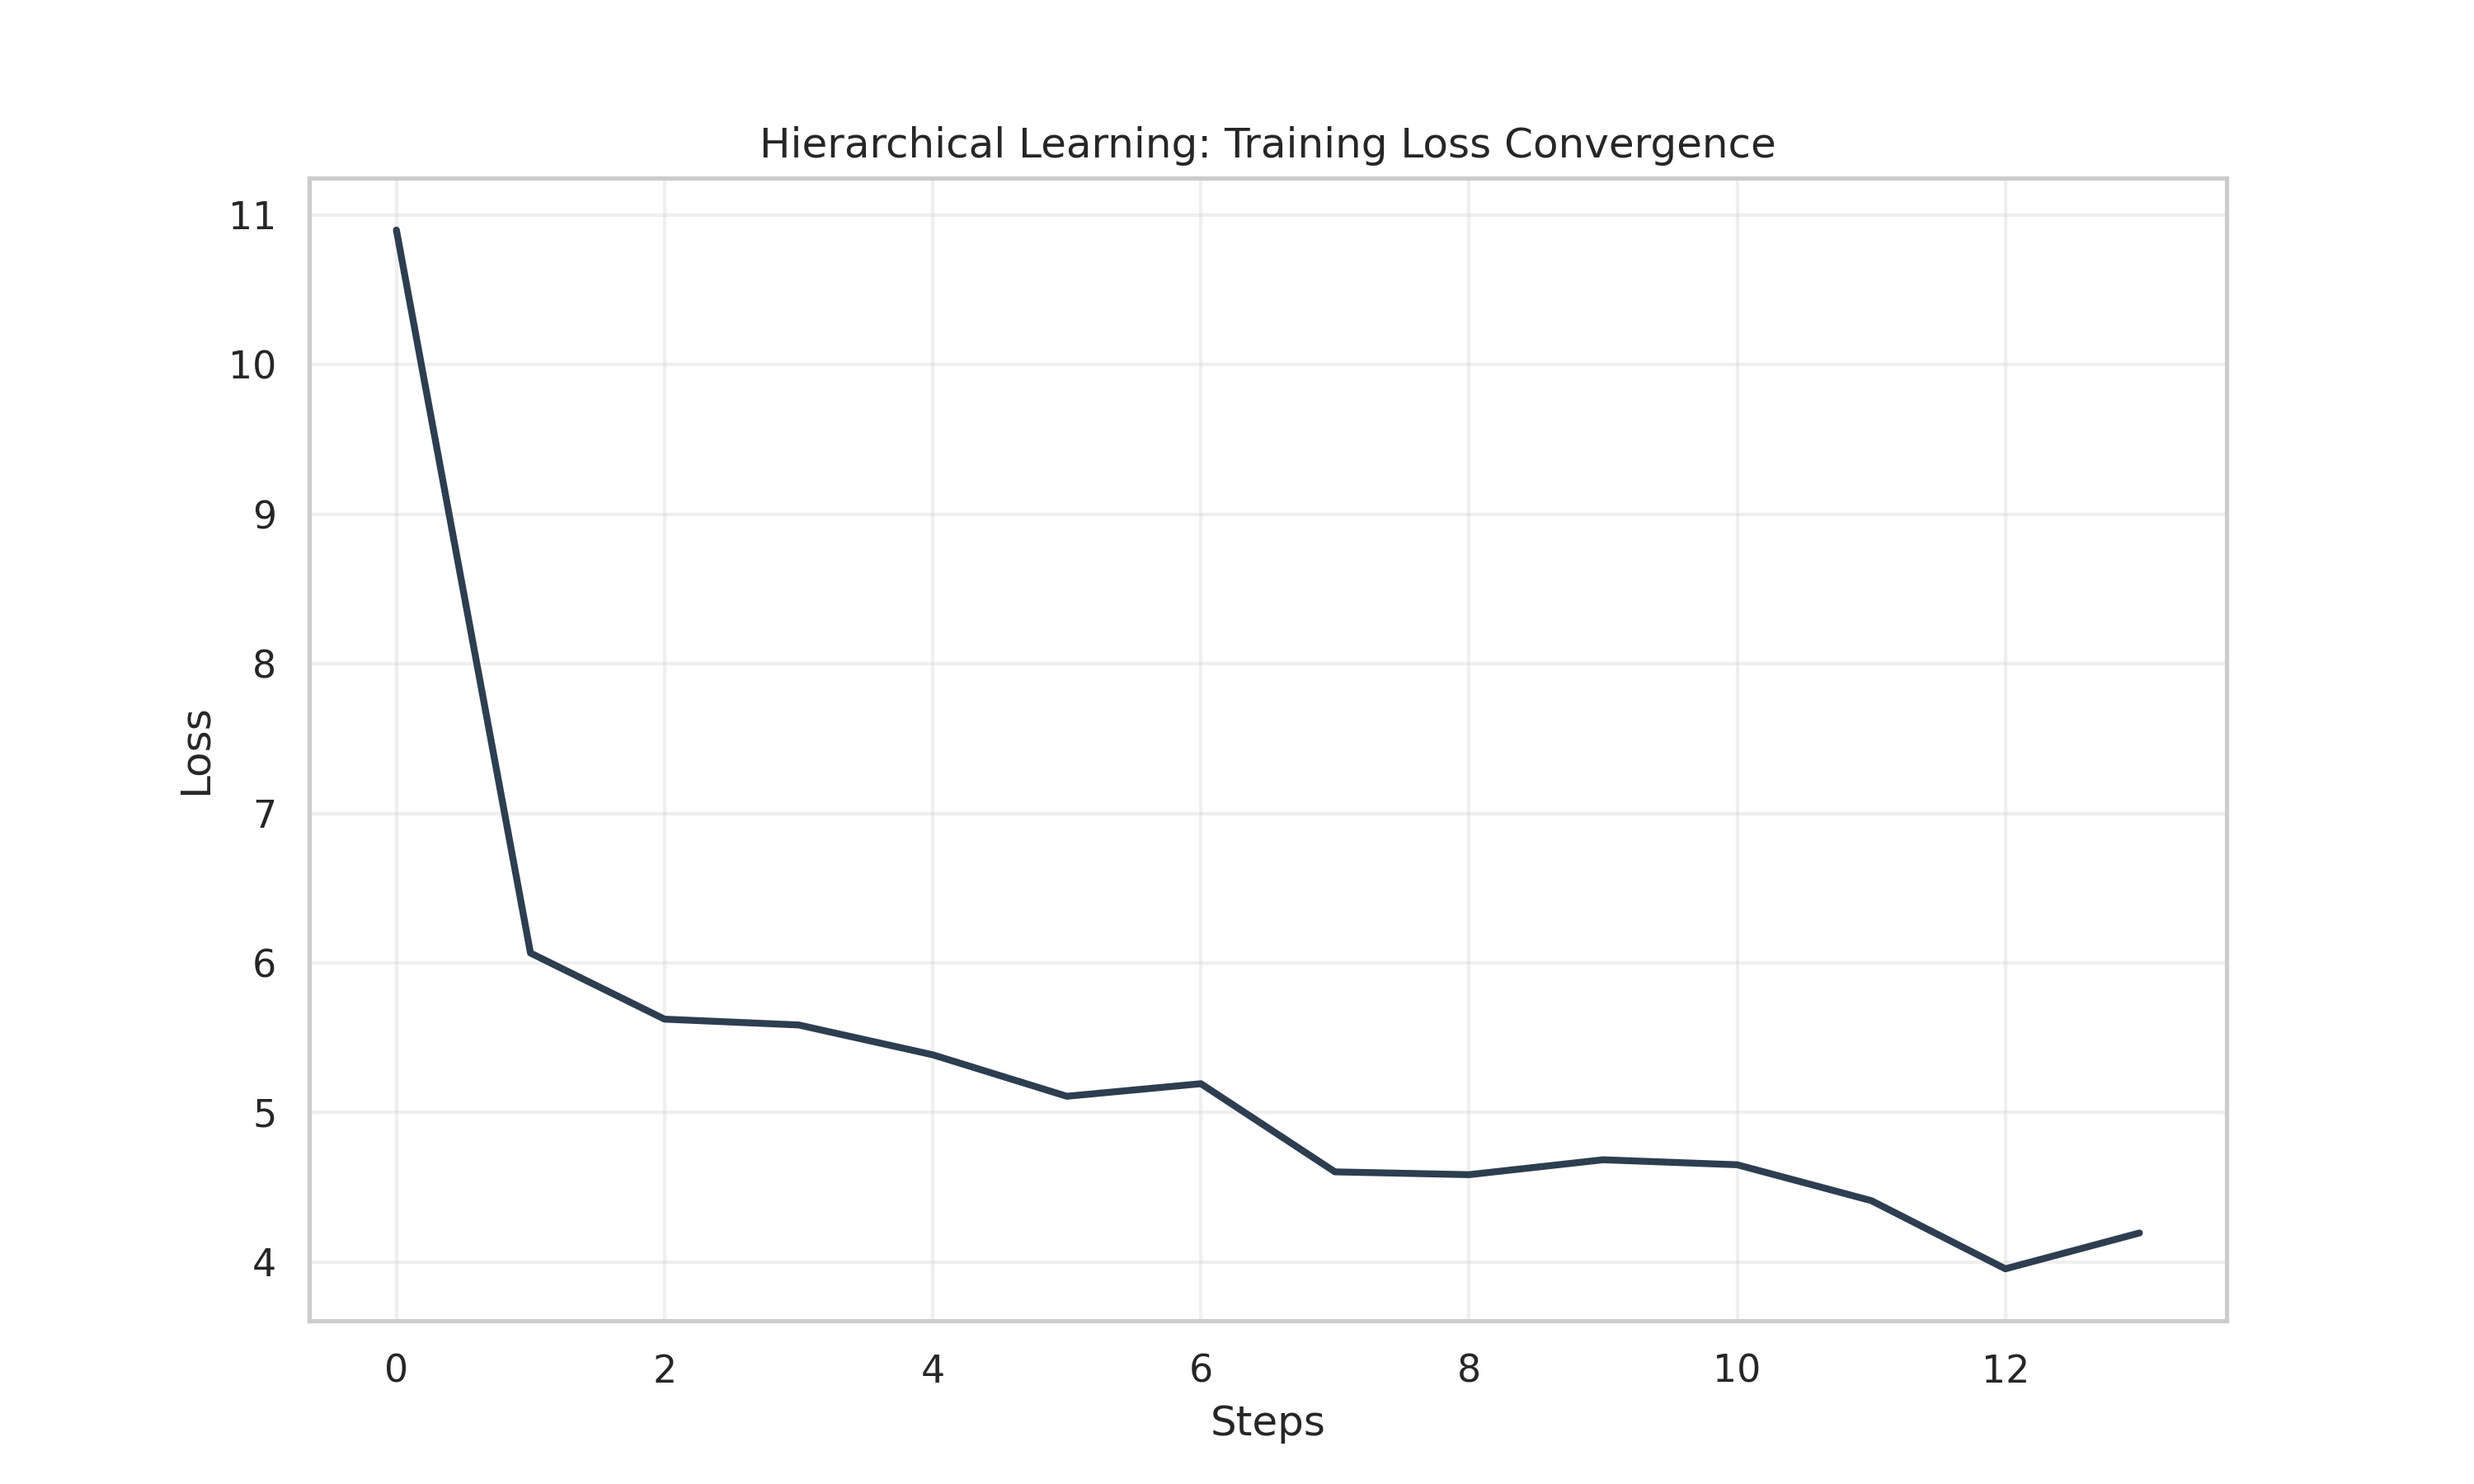
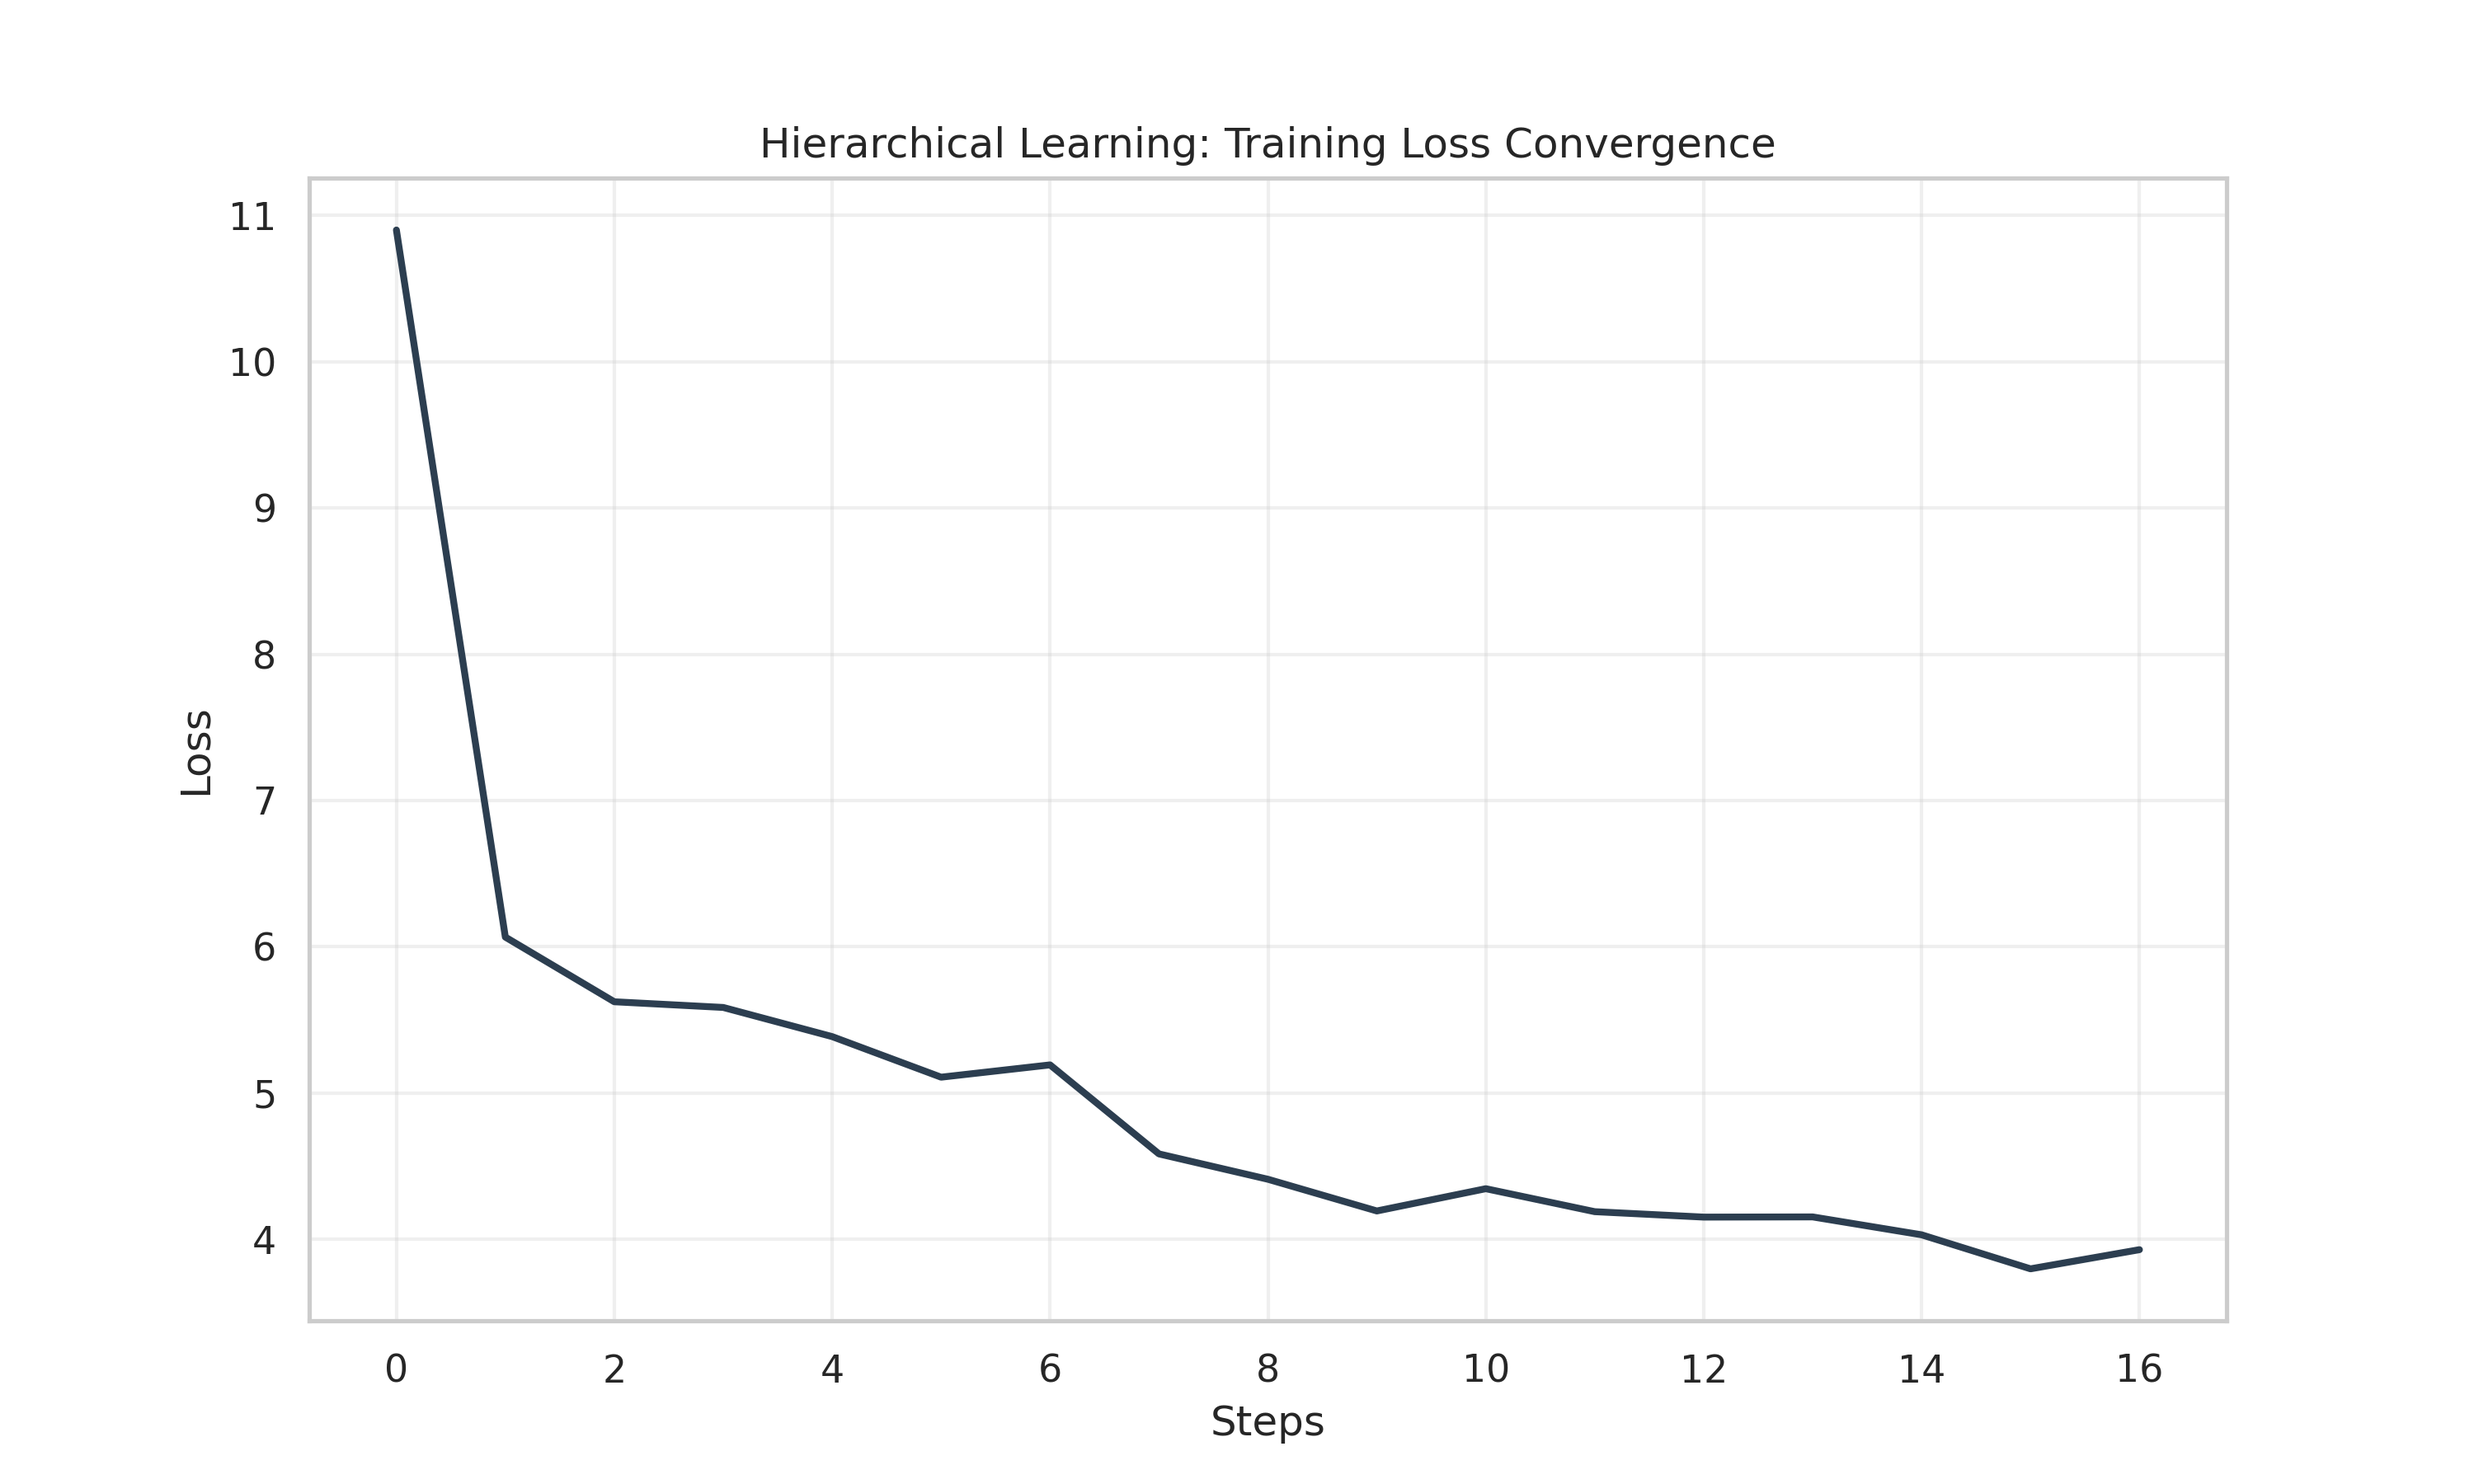
Scale research to 50M tokens: updated plots and stability analysis

diff --git a/research_muon/hierarchical_stretching.md b/research_muon/hierarchical_stretching.md
@@ -8,7 +8,7 @@ We hypothesized that while Muon enforces orthogonal constraints on parameter mat
 
 ## 📊 Experimental Setup
 - **Model**: Blueberry-Nano (88M Params, 22 layers, 512 d_model)
-- **Data**: 20 Million tokens (SmolLM-style dataset mix)
+- **Data**: 50 Million tokens (SmolLM-style dataset mix)
 - **Optimizer**: Muon (orthogonalized 2D updates for 2D params)
 - **Tracking**: Per-step extraction of:
     - **Max Spectral Norm ($\sigma_{max}$)**: Maximum singular value.
@@ -43,6 +43,16 @@ Unlike standard optimizers which can lead to uncontrolled spectral growth, Muon 
 #### D. Spectral Gap
 ![Spectral Gap](../results/research_plots/spectral_gap.png)
 *Insight: The persistent gap in deep layers shows that they maintain a clear "primary direction" for information flow, a signature of specialized semantic processing.*
+
+## ⚖ Stability & Scaling Analysis
+A common question in Muon training is whether the linear-like growth of the spectral norm (reaching ~20 in our 50M run) leads to instability.
+
+### Why it remains stable:
+1. **Geometric Regularization**: Muon updates are orthogonal ($||\Delta W||_2 = 1$). While the matrix $W$ grows additively, its frame remains well-conditioned.
+2. **RMSNorm Buffer**: Modern architectures use RMSNorm/LayerNorm which normalizes the activations before the next layer. Even if a weight matrix has a norm of 20, the *relative* variance of the signal is managed.
+3. **Sub-linear Growth**: Notice in the Evolution plot that the slope is slightly decreasing over time. The model is not perfectly "stacking" every update; it's rotating on the manifold, which naturally tames the growth compared to the theoretical maximum (which would be ~73 at this stage).
+
+**Conclusion on Stability**: We expect this "Hierarchical Stretching" to remain stable as long as the learning rate is tuned to avoid excessive activation variance. In our 50M run, the loss continues to decrease smoothly, suggesting the stretching is a healthy feature of Muon learning, not a precursor to collapse.
 
 ## 🚀 Conclusion
 Hierarchical Stretching is an emergent property of Muon-trained models. It confirms that the transformer architecture utilizes its geometric freedom to specialize layers for different semantic tasks. Muon enhances this process by providing a stable, manifold-aware training trajectory.
